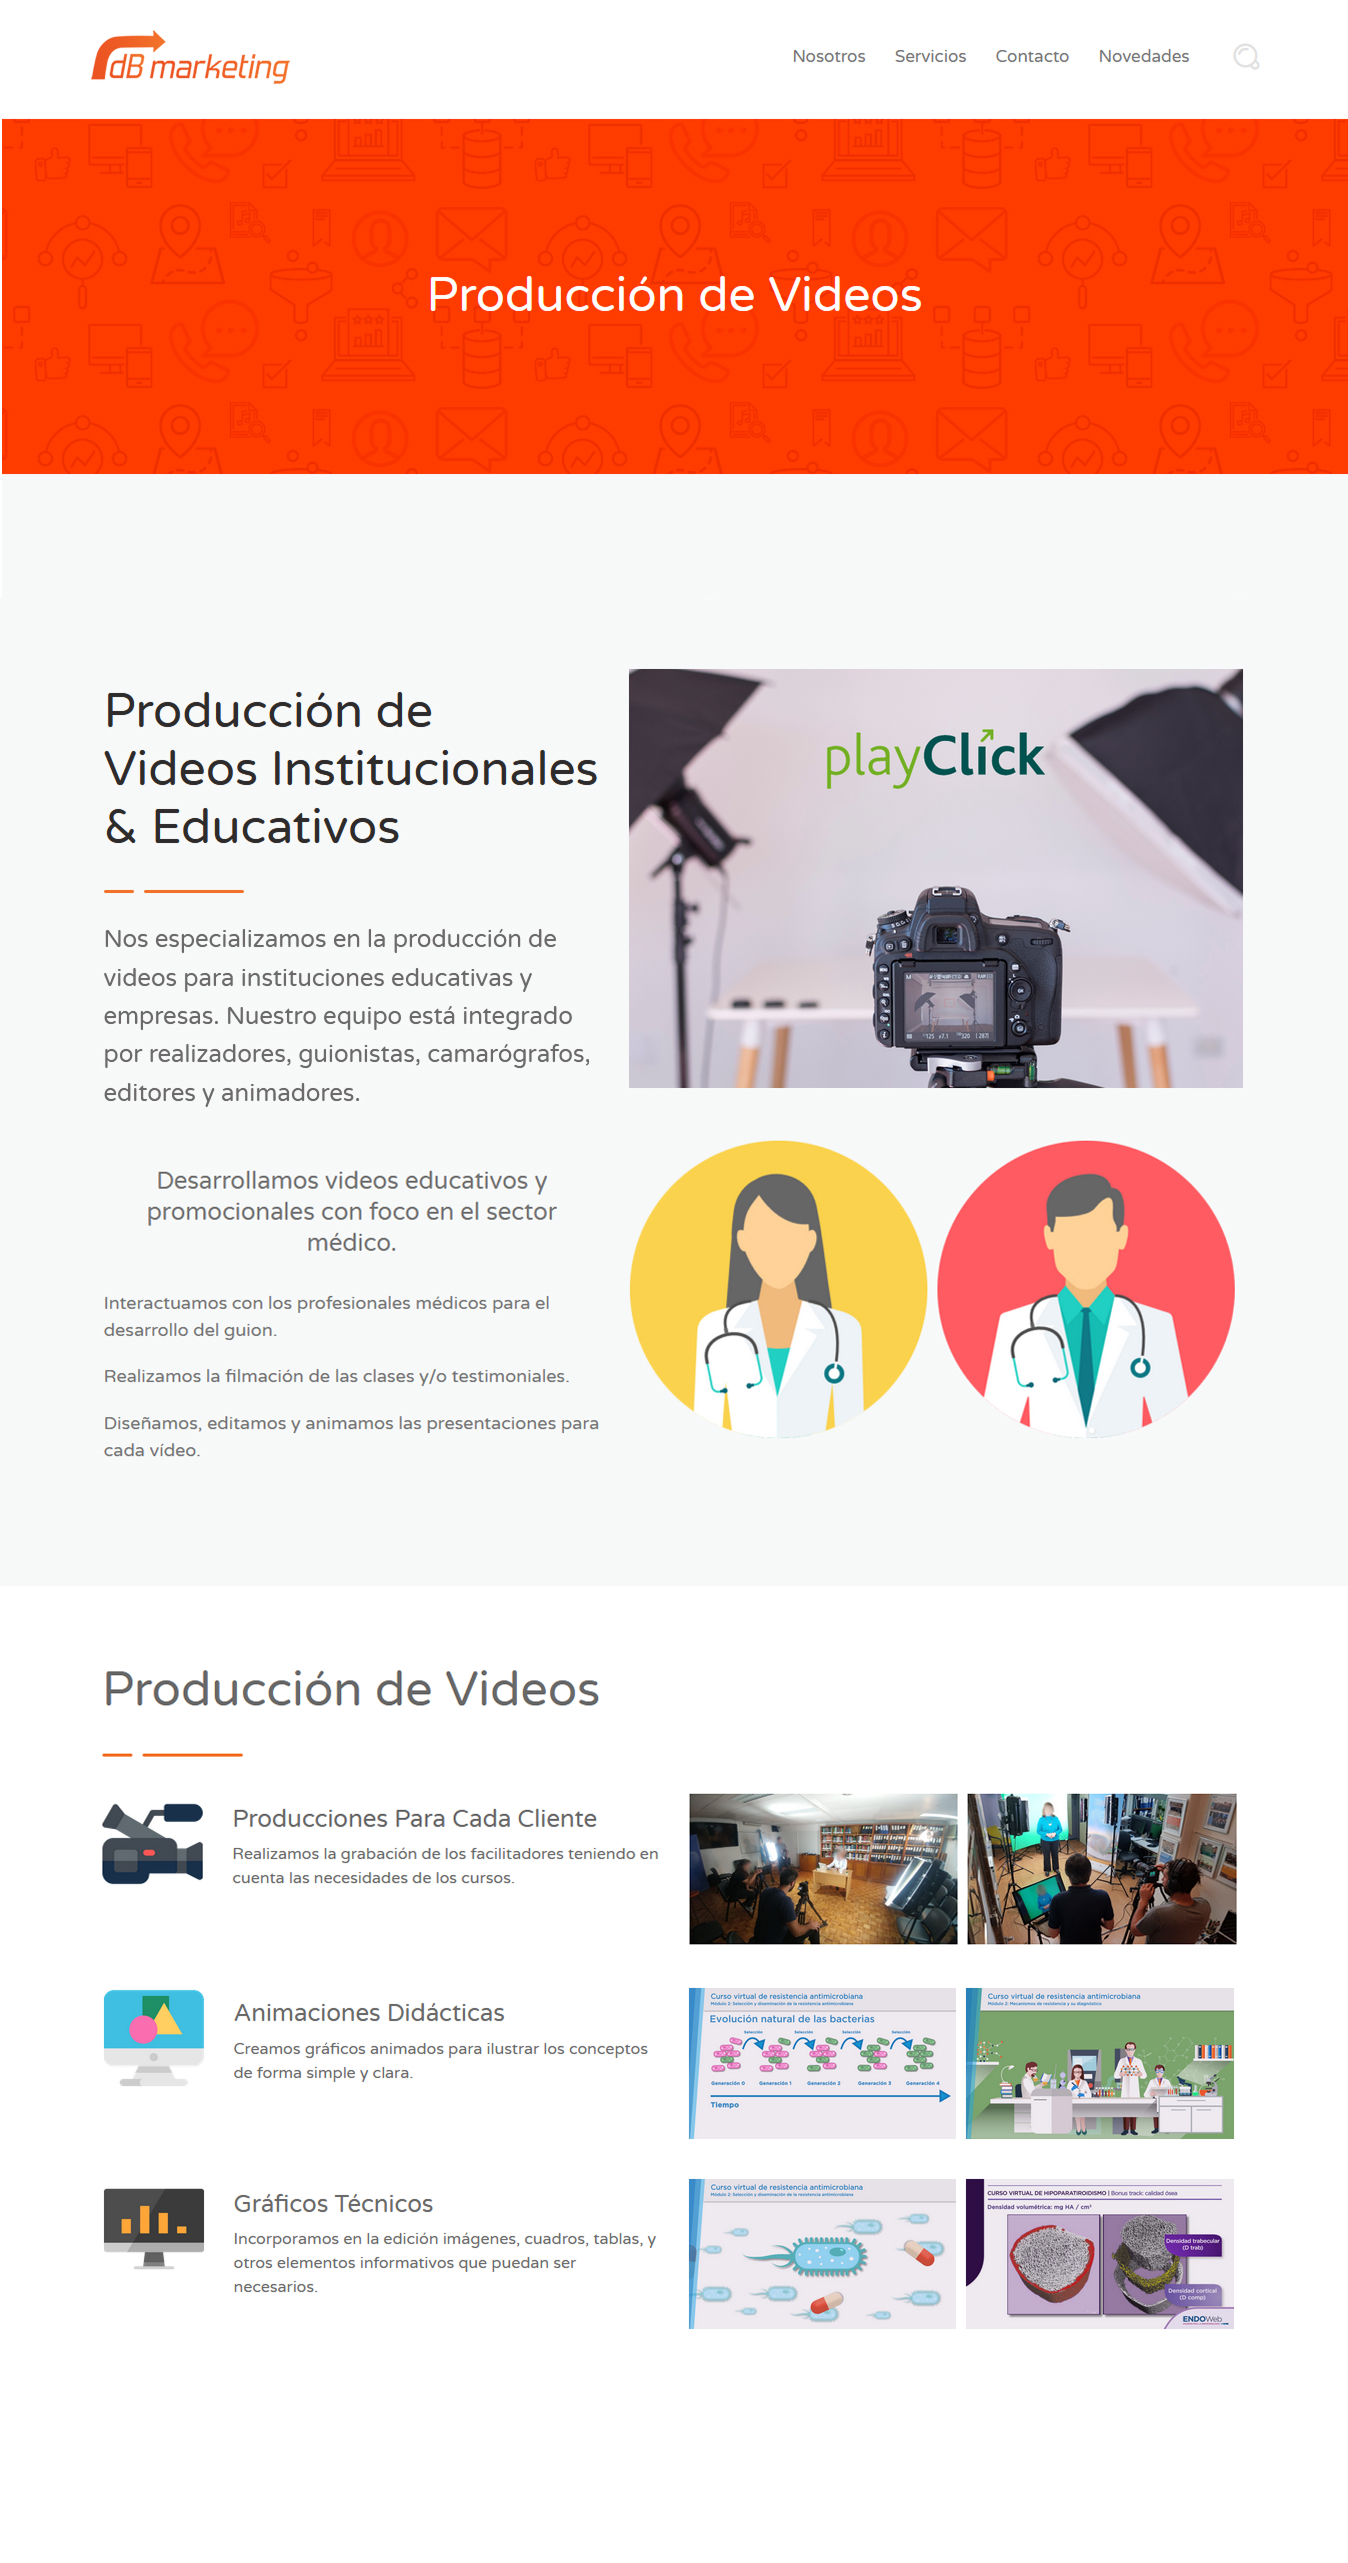
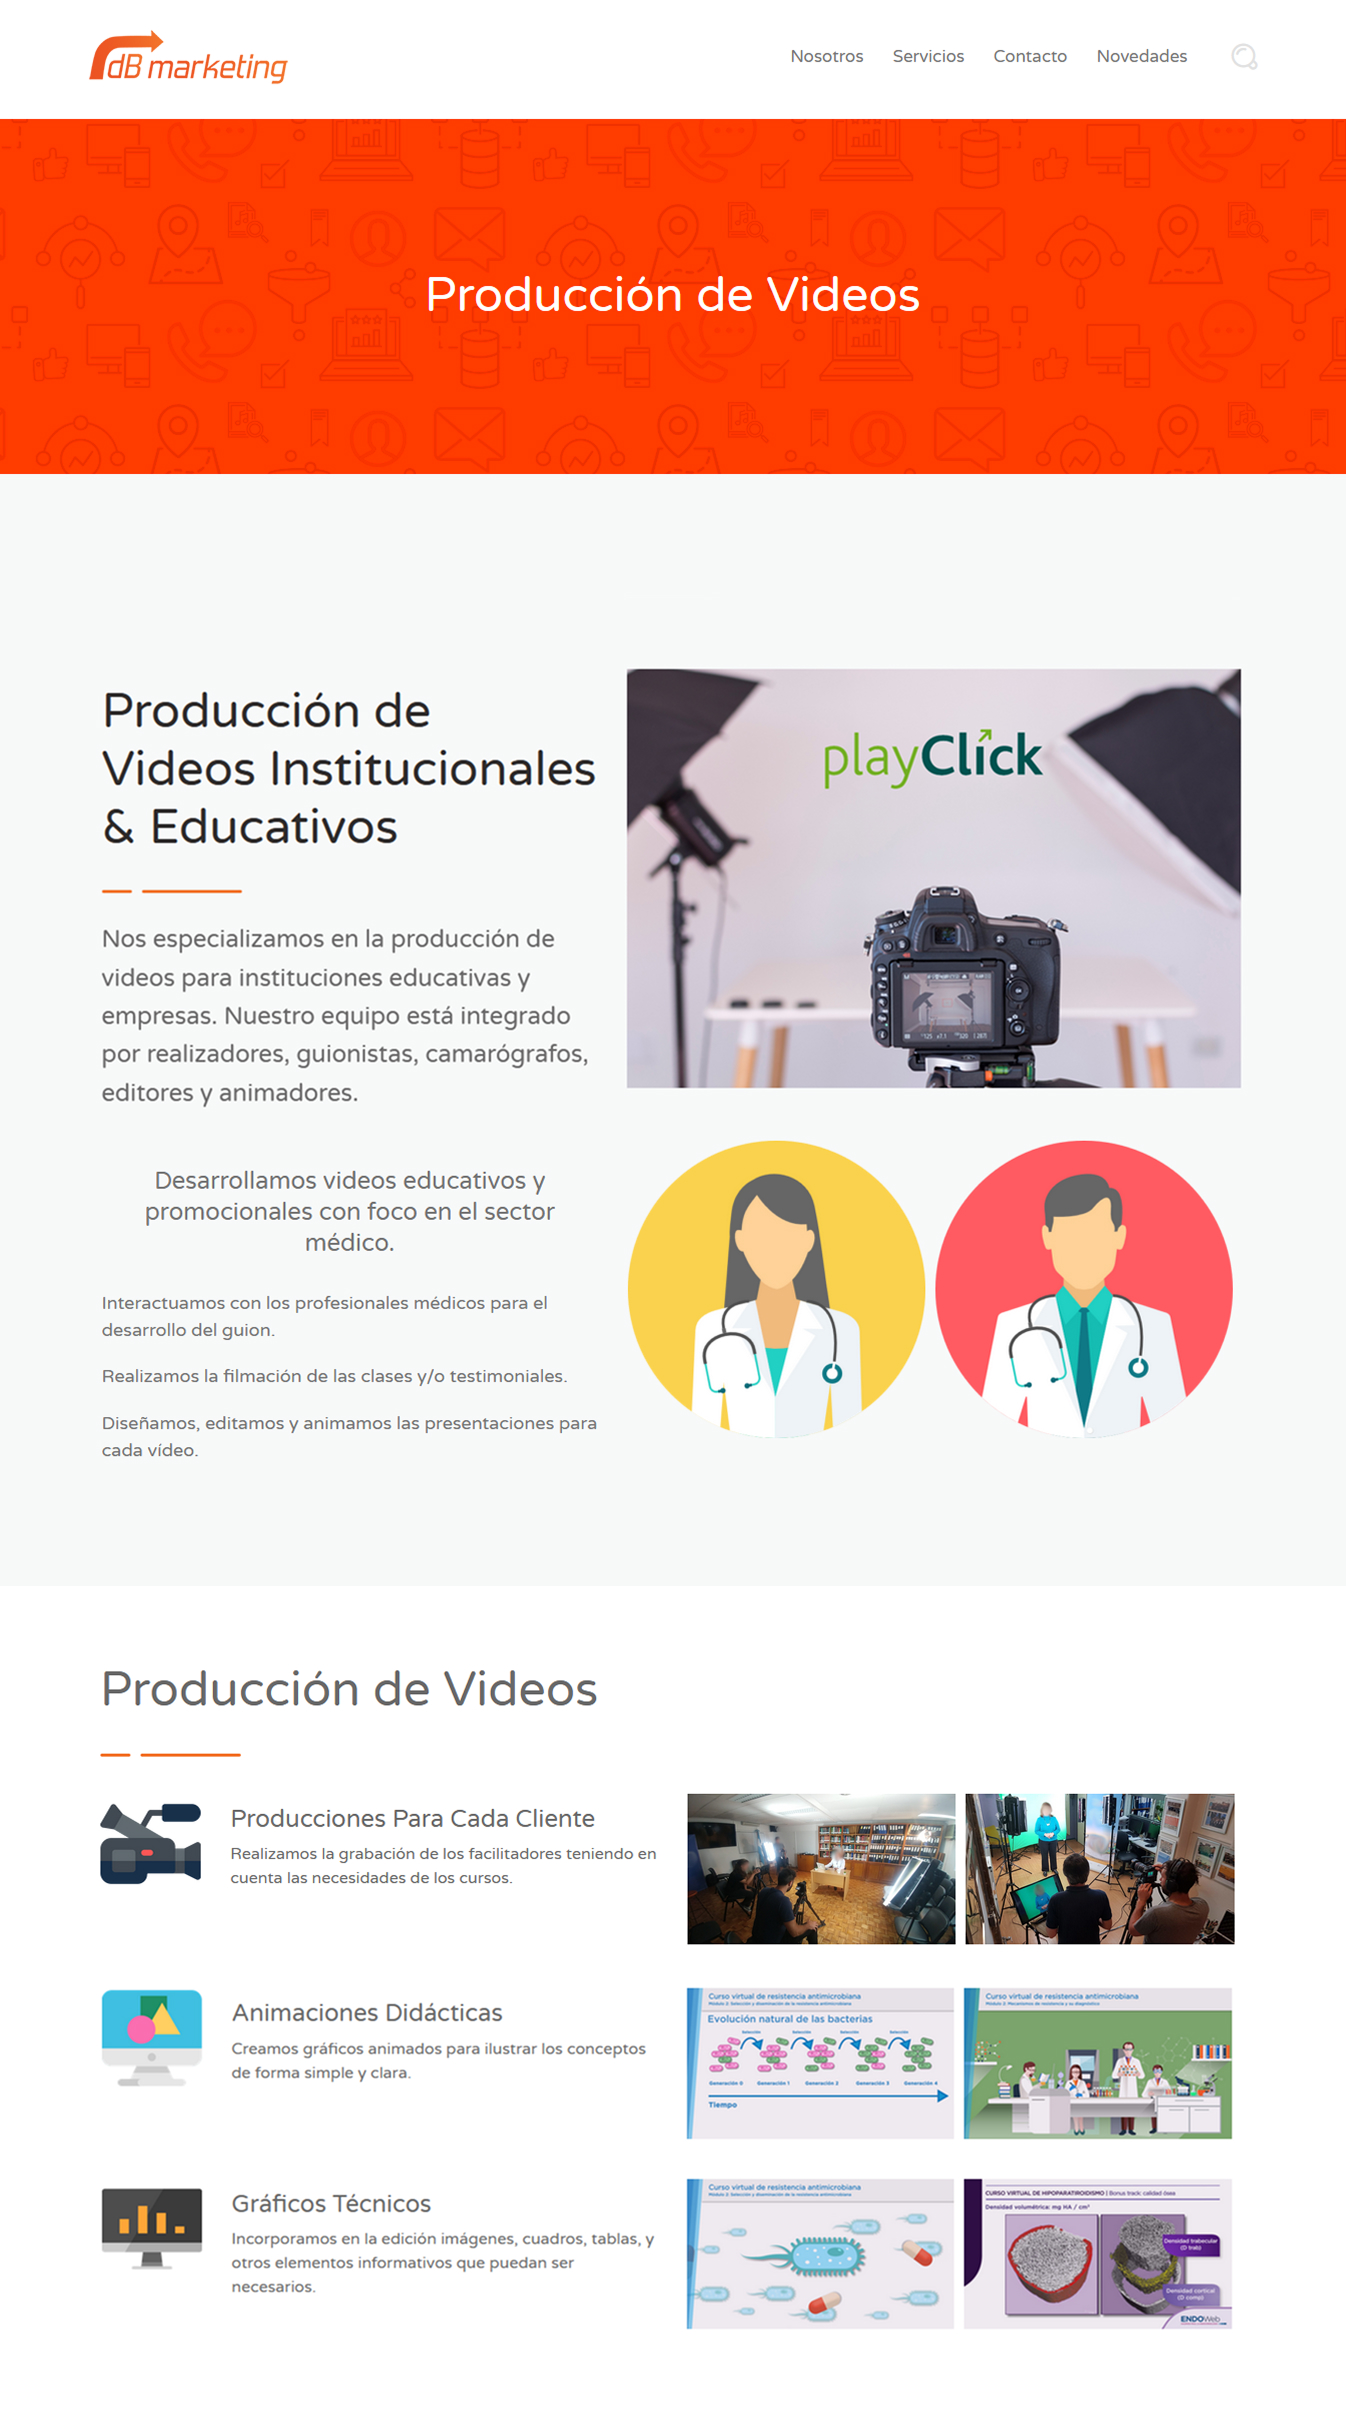
Agregado image compare de la landing de video en rediseño sitio institucional

diff --git a/src/pages/RedisenoSitioInstitucional.vue b/src/pages/RedisenoSitioInstitucional.vue
@@ -9,6 +9,8 @@ import ProjectTextCol from '../components/projects/ProjectTextCol.vue';
 import { VueCompareImage } from 'vue3-compare-image';
 import imgOldHome from "../assets/institucional-viejo-home.jpg";
 import imgNewHome from "../assets/institucional-nuevo-home.jpg";
+import imgOldVideo from "../assets/institucional-viejo-video.jpg";
+import imgNewVideo from "../assets/institucional-nuevo-video.jpg";
 </script>
 
 <template>
@@ -83,18 +85,18 @@ import imgNewHome from "../assets/institucional-nuevo-home.jpg";
       </div>
     </div>
   </section>
-  <!-- Image compare -->
+  <!-- Image compare home -->
   <section class="py-6">
     <VueCompareImage 
       :leftImage="imgOldHome" 
       :rightImage="imgNewHome" 
       leftImageAlt="Versión anterior del hero y sección principal del sitio institucional"
       rightImageAlt="Versión rediseñada del hero y sección principal del sitio institucional"
-      keyboard="true" 
-      keyboardStep="0.1"
+      :keyboard="true" 
+      :keyboardStep="0.1"
       sliderLineColor="#033035"
-      sliderLineWidth="3"
-      sliderPositionPercentage="0.5"
+      :sliderLineWidth="3"
+      :sliderPositionPercentage="0.5"
     />
   </section>
   <!-- Enfoque y proceso -->
@@ -160,6 +162,20 @@ import imgNewHome from "../assets/institucional-nuevo-home.jpg";
         </template>
       </ProjectTextCol>
     </div>
+  </section>
+  <!-- Image compare video -->
+  <section class="py-6">
+    <VueCompareImage
+      :leftImage="imgOldVideo"
+      :rightImage="imgNewVideo" 
+      leftImageAlt="Versión anterior de la página de producción de video"
+      rightImageAlt="Versión anterior de la página de producción de video"
+      :keyboard="true"
+      :keyboardStep="0.1"
+      sliderLineColor="#033035"
+      :sliderLineWidth="3"
+      :sliderPositionPercentage="0.5"
+    />
   </section>
   <!-- Impacto -->
   <section class="py-5">
